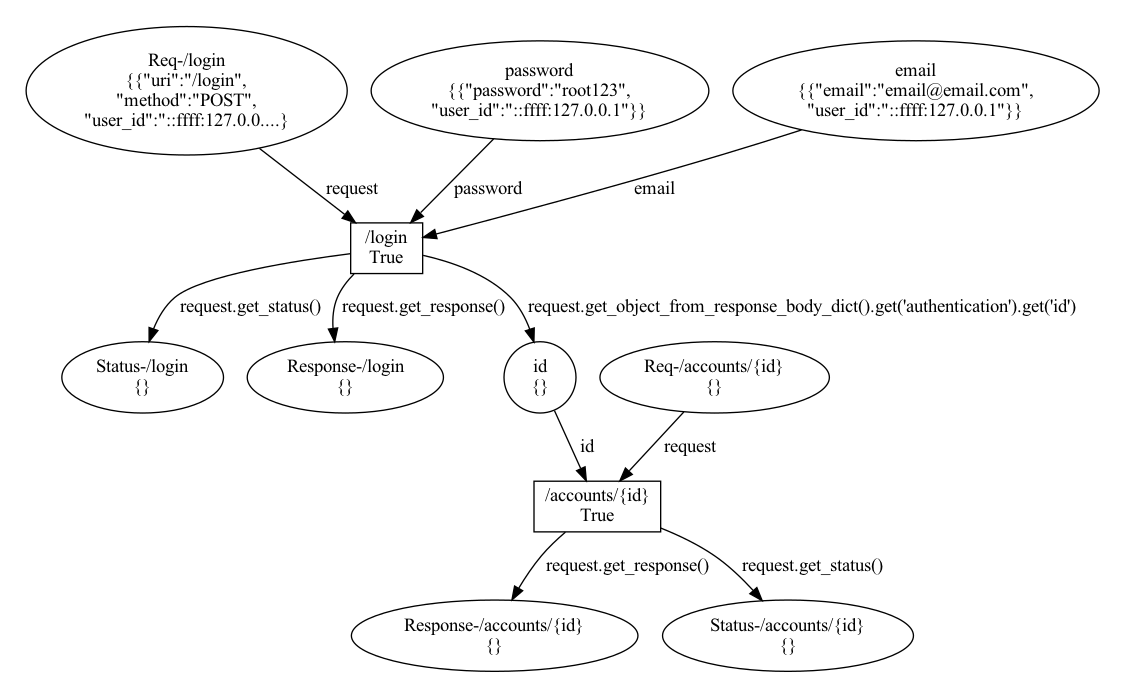
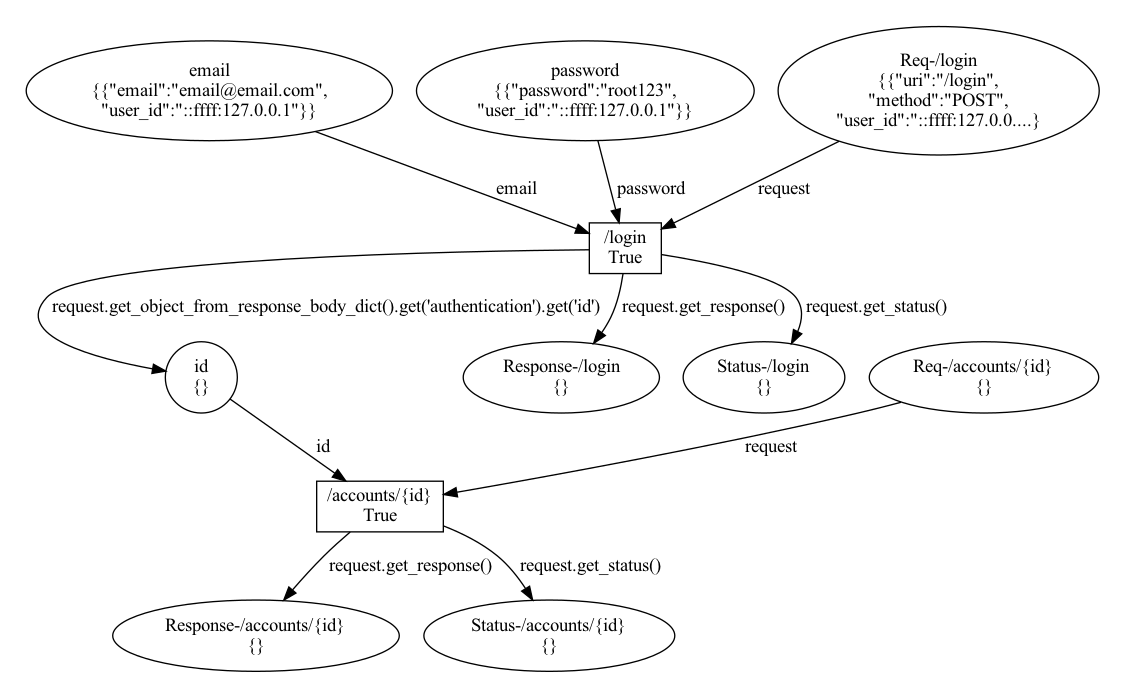
feat: beautify json tokens 2

diff --git a/ColouredToken.py b/ColouredToken.py
@@ -56,7 +56,7 @@ class RequestResponseToken(ColouredToken):
     #     super().__init__(json_dict)
 
     def __init__ (self, json_dict, response, status) :
-        self.response_body = json.dumps(response)
+        self.response_body = json.dumps(response, separators=(',\n', ':'))
         self.status_code = status
         super().__init__(json_dict)
         
@@ -71,8 +71,8 @@ class RequestResponseToken(ColouredToken):
             'status' : self.status_code,
             USER_IDENTIFICATION: self.user_id
         }
-        return json.dumps(response)
+        return json.dumps(response, separators=(',\n', ':'))
 
     def get_response(self):
         body = json.loads(self.response_body)
-        return json.dumps(body.get('response_body'))
+        return json.dumps(body.get('response_body'), separators=(',\n', ':'))

diff --git a/snakes_bola_example_01.py b/snakes_bola_example_01.py
@@ -47,6 +47,7 @@ def main():
     import ipdb; ipdb.set_trace()
     #transition_1.fire(Substitution(request=request_line, email=email, password=password, status=response_status, authentication=authentication))
     transitions[0].fire(Substitution(request=request_line, email=email, password=password, authentication=authentication))
+    petri_net.draw("value-1.png")
     
     log_line = logs_json[3]
     open_api_to_petri_parser.fill_input_places(petri_net, log_line)
